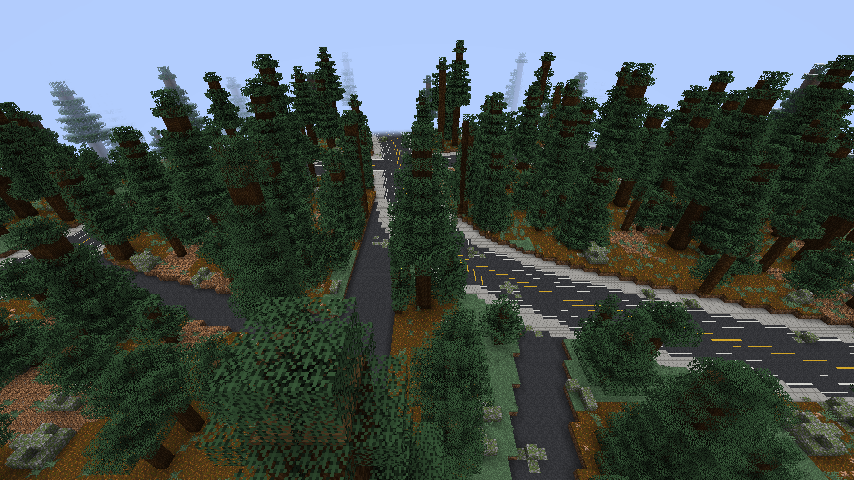
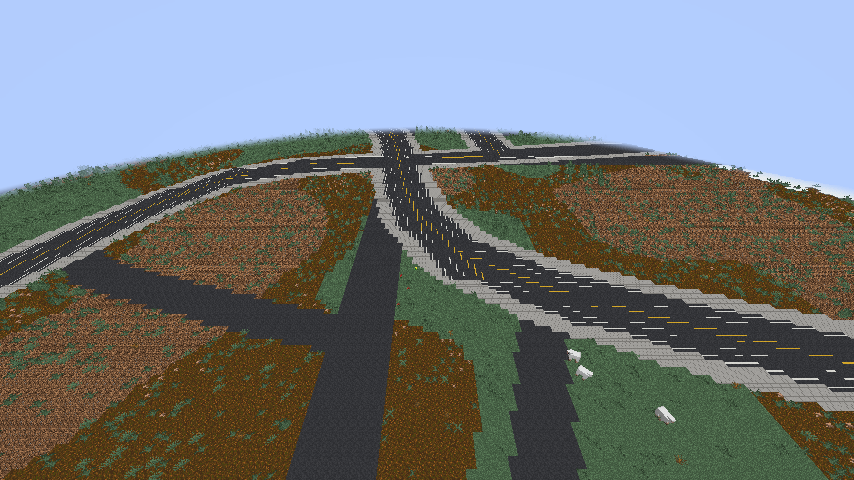
No trees or forest boulders in towns' built land; streets level with the ground

diff --git a/common/src/main/java/com/mtm/citybuilder/world/CityChunks.java b/common/src/main/java/com/mtm/citybuilder/world/CityChunks.java
@@ -66,6 +66,21 @@ public final class CityChunks {
         }
     }
 
+    /** Whether the biome may grow a tree at a position: not in a town's built land (see {@link ChunkLayer#treeAllowed}). */
+    public static boolean treeAllowed(WorldGenLevel level, BlockPos origin) {
+        if (failed) {
+            return true;
+        }
+        try {
+            CityLogic logic = CityWorlds.of(level.getLevel());
+            return logic == null || logic.chunks().treeAllowed(origin.getX(), origin.getZ());
+        } catch (RuntimeException e) {
+            failed = true;
+            CityBuilder.LOGGER.error("City logic failed at {}; no more cities are built this session", origin, e);
+            return true;
+        }
+    }
+
     /** Before decoration: paving on the ground, decks over water, headroom cleared. */
     public static void pave(WorldGenLevel level, ChunkAccess chunk) {
         ChunkLayer.Column[] columns = columns(level, chunk);
@@ -87,13 +102,19 @@ public final class CityChunks {
                 if (column.bridge()) {
                     y = (int) column.deck();
                 } else {
-                    // The solid ground (not the plants on it: a heightmap holds the height above its top block), or
-                    // the water's surface where a street crosses a stream, the water under it filled
-                    int floor = chunk.getHeight(Heightmap.Types.OCEAN_FLOOR_WG, x, z) - 1;
-                    y = floor;
-                    while (y + 1 < top && !chunk.getBlockState(pos.set(baseX + x, y + 1, baseZ + z)).getFluidState().isEmpty()) {
-                        y++;
+                    // The ground: down from the top past air and plants to the first solid block, the heightmaps not
+                    // being trusted here; where water lies on top, its surface, the water under the street filled
+                    int surface = chunk.getHeight(Heightmap.Types.WORLD_SURFACE_WG, x, z) + 2;
+                    int floor = Math.min(top, surface);
+                    int waterTop = Integer.MIN_VALUE;
+                    BlockState state = chunk.getBlockState(pos.set(baseX + x, floor, baseZ + z));
+                    while (floor > chunk.getMinBuildHeight() && !state.blocksMotion()) {
+                        if (waterTop == Integer.MIN_VALUE && !state.getFluidState().isEmpty()) {
+                            waterTop = floor;
+                        }
+                        state = chunk.getBlockState(pos.set(baseX + x, --floor, baseZ + z));
                     }
+                    y = waterTop == Integer.MIN_VALUE ? floor : waterTop;
                     for (int fill = floor + 1; fill < y; fill++) {
                         chunk.setBlockState(pos.set(baseX + x, fill, baseZ + z), Blocks.STONE.defaultBlockState(), false);
                     }

diff --git a/core/src/main/java/com/mtm/citybuilder/core/chunk/ChunkLayer.java b/core/src/main/java/com/mtm/citybuilder/core/chunk/ChunkLayer.java
@@ -173,6 +173,31 @@ public final class ChunkLayer {
         return columns;
     }
 
+    /**
+     * Whether a tree may grow at a position: everywhere outside the towns' built land, in a castle's, palace's or
+     * temple's grounds and along a reserved high-speed corridor (kept green); in the built land fewer the more intense
+     * the town, by the position's own hash, none from an intensity of {@link #TREELESS} on, where houses will stand.
+     */
+    public boolean treeAllowed(int x, int z) {
+        UrbanSample sample = logic.urban(x + 0.5, z + 0.5);
+        double built = logic.settings().streets.builtIntensity;
+        if (sample.owner() == null || sample.intensity() <= built) {
+            return true;
+        }
+        if (logic.streetPlanReady(sample.owner())) {
+            com.mtm.citybuilder.core.street.District district = logic.streetPlan(sample.owner()).districts().at(x, z);
+            if (district == com.mtm.citybuilder.core.street.District.GROUNDS
+                    || district == com.mtm.citybuilder.core.street.District.HIGH_SPEED) {
+                return true;
+            }
+        }
+        double keep = 1.0 - (sample.intensity() - built) / (TREELESS - built);
+        return keep > 0 && com.mtm.citybuilder.core.noise.Hash.unit(com.mtm.citybuilder.core.noise.Hash.of(0x7EE5L, x, z)) < keep;
+    }
+
+    /** Town intensity from which no tree grows: the built-up town, not its leafy edge. */
+    public static final double TREELESS = 0.3;
+
     /** The towns whose built land touches a chunk: the owners at its corners and middle. */
     private Set<Settlement> towns(double minX, double minZ) {
         Set<Settlement> towns = new LinkedHashSet<>();

diff --git a/common/src/main/java/com/mtm/citybuilder/mixin/ConfiguredFeatureMixin.java b/common/src/main/java/com/mtm/citybuilder/mixin/ConfiguredFeatureMixin.java
@@ -1,0 +1,31 @@
+package com.mtm.citybuilder.mixin;
+
+import com.mtm.citybuilder.world.CityChunks;
+import net.minecraft.core.BlockPos;
+import net.minecraft.util.RandomSource;
+import net.minecraft.world.level.WorldGenLevel;
+import net.minecraft.world.level.chunk.ChunkGenerator;
+import net.minecraft.world.level.levelgen.feature.ConfiguredFeature;
+import net.minecraft.world.level.levelgen.feature.BlockBlobFeature;
+import net.minecraft.world.level.levelgen.feature.TreeFeature;
+import org.spongepowered.asm.mixin.Mixin;
+import org.spongepowered.asm.mixin.injection.At;
+import org.spongepowered.asm.mixin.injection.Inject;
+import org.spongepowered.asm.mixin.injection.callback.CallbackInfoReturnable;
+
+/**
+ * Keeps the trees of the biome, and its forest boulders, out of the towns' built land: none is placed where the town
+ * allows no tree.
+ */
+@Mixin(ConfiguredFeature.class)
+abstract class ConfiguredFeatureMixin {
+    @Inject(method = "place", at = @At("HEAD"), cancellable = true)
+    private void citybuilder$noTreesInTown(WorldGenLevel level, ChunkGenerator generator, RandomSource random, BlockPos origin,
+                                           CallbackInfoReturnable<Boolean> cir) {
+        // Trees, and the boulders of a forest floor, which land on the streets laid before them
+        Object feature = ((ConfiguredFeature<?, ?>) (Object) this).feature();
+        if ((feature instanceof TreeFeature || feature instanceof BlockBlobFeature) && !CityChunks.treeAllowed(level, origin)) {
+            cir.setReturnValue(false);
+        }
+    }
+}

diff --git a/core/src/test/java/com/mtm/citybuilder/core/chunk/ChunkLayerTest.java b/core/src/test/java/com/mtm/citybuilder/core/chunk/ChunkLayerTest.java
@@ -75,6 +75,10 @@ class ChunkLayerTest {
                 assertTrue(column.deck() > SyntheticTerrain.SEA, "deck " + column.deck());
             }
         }
+        // No trees at the heart of the town; trees outside it
+        assertTrue(!layer.treeAllowed((int) Math.floor(logic.extent(town).coreX()), (int) Math.floor(logic.extent(town).coreZ())),
+                "a tree at the town's heart");
+        assertTrue(layer.treeAllowed(-16000, 0), "no tree at sea");
         // Out at sea (west of x = 0), nothing
         ChunkLayer.Column[] empty = layer.columns(-1000, 0);
         for (ChunkLayer.Column column : empty) {

diff --git a/docs/city-logic-design.md b/docs/city-logic-design.md
@@ -520,7 +520,7 @@ L5–L8 每种风格各有一套规则和素材，见第 5 节；这里先写共
 
 ### 区块层
 
-**第一版已实现（2026-11-20）**：只铺路。core 的 `chunk.ChunkLayer` 按区块给出每列的道路等级、桥面、离中心线偏移和方向，`paving` 按日本道路决定铺装（干道两侧人行道、中央黄线、边缘白线、两车道时白色虚线；支路、古道只铺沥青；小巷人行道砖）；common 的 `CityChunks` 在原版装饰前铺路、装饰后清路面上方。桥面每座水平（两岸较高地面 +1），还没有桥墩和栏杆；坡道、台阶照地形铺，没有台阶方块；护岸、农田、道口、斑马线、站台和建筑都还没做。规划由后台线程按玩家位置提前进行（`CityPlanner`），区块生成线程遇到没规划好的城才等。第一次游戏内截图（`docs/screens/`，种子 12345 的城下町）：干道的沥青、黄色中央线、白色车道虚线和人行道都出来了；【待做】建成区里原版的树和草（这里是针叶林）照常生成，城市像修在森林里，要在建成区抑制原版植被；人行道和车道同高，日本的人行道高出一阶。
+**第一版已实现（2026-11-20）**：只铺路。core 的 `chunk.ChunkLayer` 按区块给出每列的道路等级、桥面、离中心线偏移和方向，`paving` 按日本道路决定铺装（干道两侧人行道、中央黄线、边缘白线、两车道时白色虚线；支路、古道只铺沥青；小巷人行道砖）；common 的 `CityChunks` 在原版装饰前铺路、装饰后清路面上方。桥面每座水平（两岸较高地面 +1），还没有桥墩和栏杆；坡道、台阶照地形铺，没有台阶方块；护岸、农田、道口、斑马线、站台和建筑都还没做。规划由后台线程按玩家位置提前进行（`CityPlanner`），区块生成线程遇到没规划好的城才等。第一次游戏内截图（`docs/screens/`，种子 12345 的城下町）：干道的沥青、黄色中央线、白色车道虚线和人行道都出来了；建成区里原版的树和森林石堆（`ConfiguredFeatureMixin`：`TreeFeature`、`BlockBlobFeature`）按 `ChunkLayer.treeAllowed` 不再生成：强度从建成线到 0.3 线性减少、0.3 以上没有，城址和寺社空地、高速线走廊照常长树；路面按从上往下第一块实心方块铺，和两边地面齐平；人行道和车道同高，日本的人行道高出一阶。
 
 
 区块生成时，问 `CityLogic`：这个区块碰到哪些道路、隧道、农田、已建地块？然后写方块。
